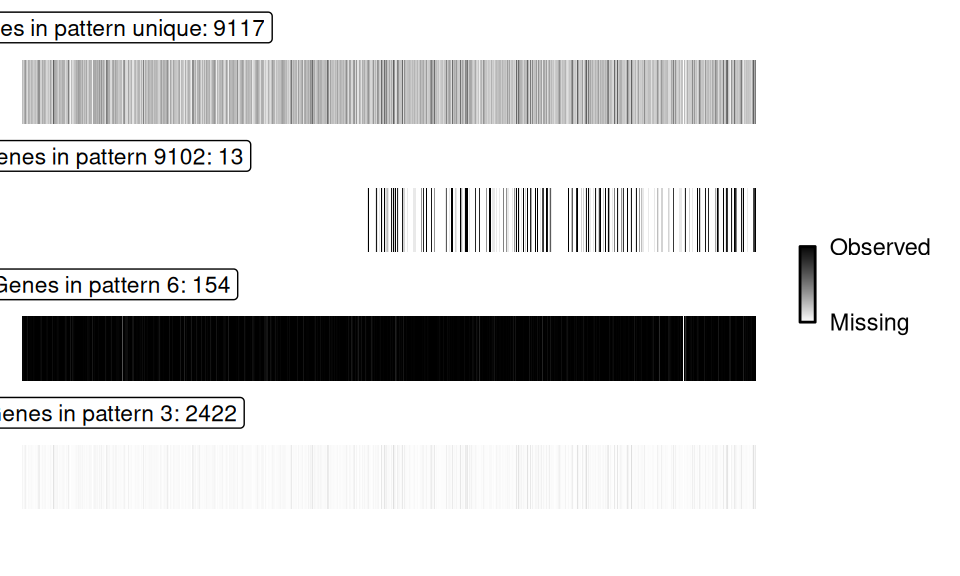
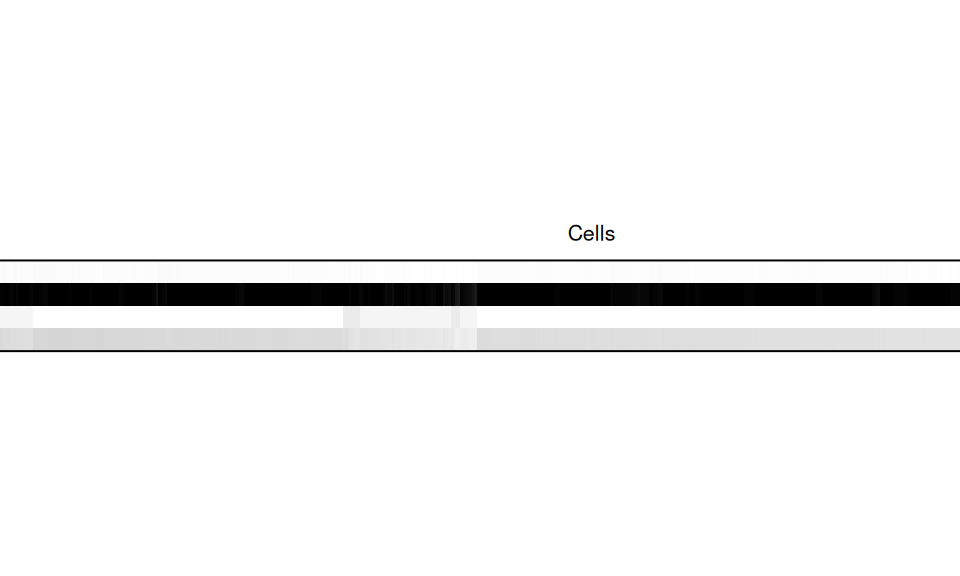
Deploying to gh-pages from @ davidsanin/OARscRNA@6fac2356fe626489b98f57625dca64c08bd263d1 🚀

Changed region(s): [[0.0, 0.3125, 1.0, 0.75], [0.0, 0.0, 0.8125, 0.3125]]

diff --git a/articles/detailed_tutorial.html b/articles/detailed_tutorial.html
@@ -170,8 +170,8 @@ rarely works as most cells differ by one or more genes.</p>
 <span><span class="co">#&gt; [1] "Identified 2 non-unique missing data patterns, encompassing 38 genes"</span></span>
 <span><span class="fu"><a href="https://rdrr.io/r/base/table.html" class="external-link">table</a></span><span class="op">(</span><span class="va">mdp_exact</span><span class="op">)</span></span>
 <span><span class="co">#&gt; mdp_exact</span></span>
-<span><span class="co">#&gt;   5244   5482 unique </span></span>
-<span><span class="co">#&gt;     31      7  11668</span></span></code></pre></div>
+<span><span class="co">#&gt;       Pattern 1       Pattern 2 Unique patterns </span></span>
+<span><span class="co">#&gt;              31               7           11668</span></span></code></pre></div>
 <p>Notice that there are still a considerable number of unique patterns,
 and few genes are captured in the repeated patterns.</p>
 <p>Alternatively, we can identify genes with minimal mismatch between
@@ -206,8 +206,8 @@ consider genes as part of the same pattern.</p>
 <span><span class="va">...</span></span>
 <span><span class="fu"><a href="https://rdrr.io/r/base/table.html" class="external-link">table</a></span><span class="op">(</span><span class="va">mdp_auto_tol</span><span class="op">)</span></span>
 <span><span class="co">#&gt; mdp_auto_tol</span></span>
-<span><span class="co">#&gt;      3      6   9102 unique </span></span>
-<span><span class="co">#&gt;   2422    154     13   9117</span></span></code></pre></div>
+<span><span class="co">#&gt;       Pattern 1       Pattern 2       Pattern 3 Unique patterns </span></span>
+<span><span class="co">#&gt;            2422             154              13            9117</span></span></code></pre></div>
 <p>If we have previously run the analysis or we wish to tune the
 tolerance to a value outside the automatic range, we can choose our own
 tolerance and pass it to the function, which will be faster, but may not
@@ -230,8 +230,8 @@ Missing Data Pattern Plot
 </div>
 <p>Each slice of the bar represents a cell, and it is colored based on
 what percentage of genes from that pattern are expressed in each cell.
-For example, the 13 genes in pattern 9102 are expressed in roughly one
-third of the cells in the data.</p>
+For example, a pattern of 13 genes is expressed in about a third of
+cells.</p>
 </div>
 <div class="section level3">
 <h3 id="calculate-oar-scores">3. Calculate OAR scores<a class="anchor" aria-label="anchor" href="#calculate-oar-scores"></a>
@@ -349,7 +349,7 @@ missing data patterns (mdp) they have been included in
 <span><span class="co">#&gt; [1] "Extracting data..."</span></span>
 <span><span class="co">#&gt; [1] "Extracting count tables"</span></span>
 <span><span class="co">#&gt; [1] "Analysis started on:"</span></span>
-<span><span class="co">#&gt; [1] "2024-12-12 20:12:47 UTC"</span></span>
+<span><span class="co">#&gt; [1] "2024-12-12 23:11:10 UTC"</span></span>
 <span><span class="co">#&gt; [1] "Identifying missing data patterns..."</span></span>
 <span><span class="va">...</span></span></code></pre></div>
 <p>We set these parameters based on our earlier results and adjusted to

diff --git a/articles/introductory_vignette.html b/articles/introductory_vignette.html
@@ -125,7 +125,7 @@ in the identification of the patterns.</p>
 <span><span class="co">#&gt; [1] "Extracting data..."</span></span>
 <span><span class="co">#&gt; [1] "Extracting count tables"</span></span>
 <span><span class="co">#&gt; [1] "Analysis started on:"</span></span>
-<span><span class="co">#&gt; [1] "2024-12-12 20:26:41 UTC"</span></span>
+<span><span class="co">#&gt; [1] "2024-12-12 23:19:54 UTC"</span></span>
 <span><span class="co">#&gt; [1] "Identifying missing data patterns..."</span></span>
 <span><span class="va">...</span></span></code></pre></div>
 <p>We deliberately left most parameters as defaults, however we
@@ -224,13 +224,12 @@ like this:</p>
 Missing Data Pattern Plot
 </p>
 </div>
-<p>For this dataset, we identified 4 sets of genes. At the top we have a
-combination of all genes with unique patterns. Below that, we have 3
-patterns found across cells, with the assigned indices of 9102, 6, and
-3. Each slice of the bar represents a cell, and it is colored based on
-what percentage of genes from that pattern are expressed in each cell.
-For example, in pattern 9102, about a third of cells express 13 specific
-genes, which are conversely absent in all other cells.</p>
+<p>For this dataset, we identified 4 sets of genes: 3 relatively
+conserved patterns allowing for some mismatch, and a fourth which is a
+combination of all genes with unique patterns. Each slice of the bar
+represents a cell, and it is colored based on what percentage of genes
+from that pattern are expressed in each cell. For example, a pattern of
+13 genes is expressed in about a third of cells.</p>
 <p>To get a data.frame of the genes within each pattern, use:</p>
 <div class="sourceCode" id="cb7"><pre class="downlit sourceCode r">
 <code class="sourceCode R"><span><span class="va">mdp</span> <span class="op">&lt;-</span> <span class="fu"><a href="../reference/get_missing_pattern_genes.html">get_missing_pattern_genes</a></span><span class="op">(</span><span class="va">oar_obj</span><span class="op">)</span></span></code></pre></div>
@@ -293,7 +292,7 @@ object by setting <code>seurat_v5</code> to <code>FALSE</code>.</p>
 <span><span class="co">#&gt; Warning in oar(data, seurat_v5 = FALSE, mismatch = TRUE, tolerance = TRUE, : Running process in fewer than 2 cores will considerably slow down progress</span></span>
 <span><span class="co">#&gt; [1] "Extracting data..."</span></span>
 <span><span class="co">#&gt; [1] "Analysis started on:"</span></span>
-<span><span class="co">#&gt; [1] "2024-12-12 20:31:06 UTC"</span></span>
+<span><span class="co">#&gt; [1] "2024-12-12 23:24:23 UTC"</span></span>
 <span><span class="co">#&gt; [1] "Identifying missing data patterns..."</span></span>
 <span><span class="co">#&gt; [1] "Calculating Hamming distances between gene vectors using specified cores."</span></span>
 <span><span class="va">...</span></span>

diff --git a/articles/Gene_expression.html b/articles/Gene_expression.html
@@ -116,7 +116,7 @@ function. The result is a Seurat object with <code>OARscore</code>,
 <span><span class="co">#&gt; [1] "Extracting data..."</span></span>
 <span><span class="co">#&gt; [1] "Extracting count tables"</span></span>
 <span><span class="co">#&gt; [1] "Analysis started on:"</span></span>
-<span><span class="co">#&gt; [1] "2024-12-12 20:21:42 UTC"</span></span>
+<span><span class="co">#&gt; [1] "2024-12-12 23:15:00 UTC"</span></span>
 <span><span class="co">#&gt; [1] "Identifying missing data patterns..."</span></span>
 <span><span class="va">...</span></span></code></pre></div>
 <p>To explore which cells/clusters have the most heterogeneity, we can
@@ -159,13 +159,13 @@ computing.</p>
 <span>    splines <span class="op">=</span> <span class="cn">TRUE</span>, degrees.freedom <span class="op">=</span> <span class="fl">5</span>,</span>
 <span>    auto.threshold <span class="op">=</span> <span class="cn">TRUE</span>, custom.tr <span class="op">=</span> <span class="cn">NULL</span><span class="op">)</span></span>
 <span><span class="co">#&gt; [1] "Analysis started on:"</span></span>
-<span><span class="co">#&gt; [1] "2024-12-12 20:25:29 UTC"</span></span>
+<span><span class="co">#&gt; [1] "2024-12-12 23:18:41 UTC"</span></span>
 <span><span class="co">#&gt; [1] "Extracting count tables"</span></span>
 <span><span class="co">#&gt; [1] "FDR threshold set to:"</span></span>
 <span><span class="co">#&gt; [1] 1e-20</span></span>
 <span><span class="co">#&gt; Warning in oar_deg(data = sc.data, seurat_v5 = T, score.name = "OARscore", : Using splines increases calculation time by 3-5x</span></span>
 <span><span class="co">#&gt; [1] "Analysis completed at:"</span></span>
-<span><span class="co">#&gt; [1] "2024-12-12 20:26:26 UTC"</span></span></code></pre></div>
+<span><span class="co">#&gt; [1] "2024-12-12 23:19:39 UTC"</span></span></code></pre></div>
 <p>A brief explanation of these parameters is presented here:</p>
 <ul>
 <li>
